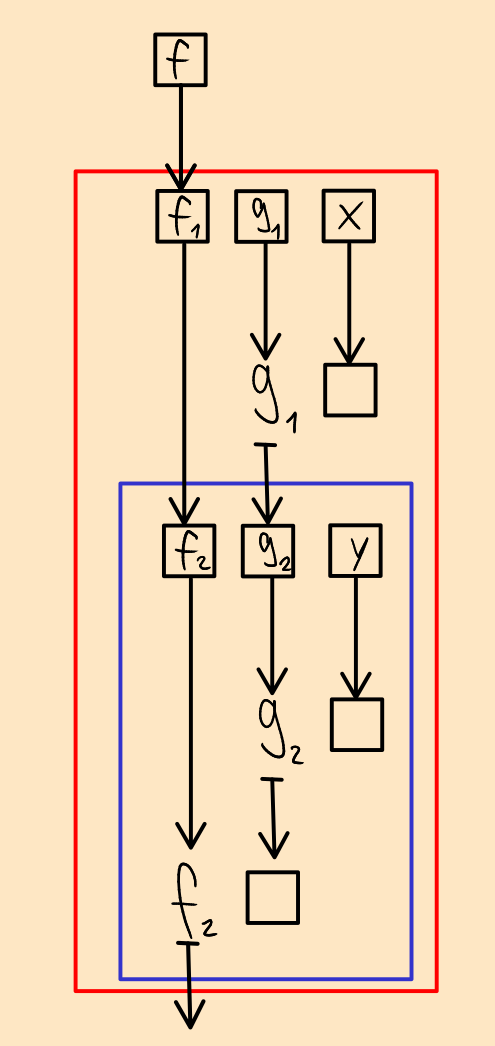
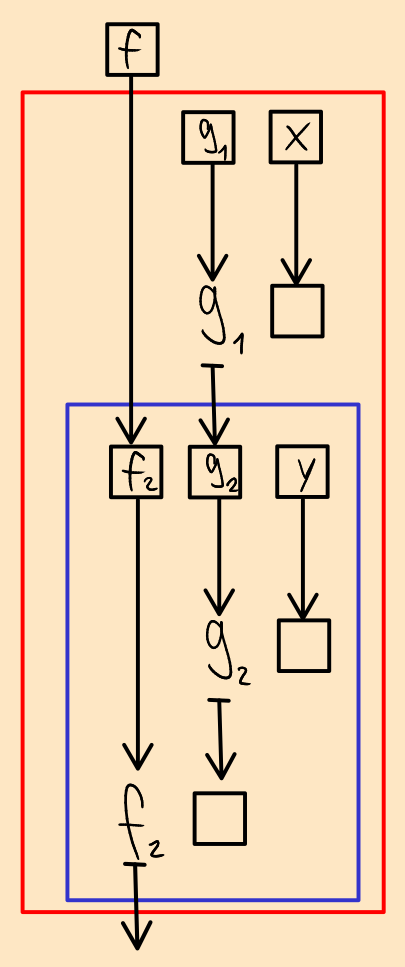
Visual and wording improvement

Changed region(s): [[0.0296, 0.0, 0.9778, 0.9928], [0.5926, 0.3413, 0.6222, 0.3723]]

diff --git a/content/md/posts/combinatory-birdwatching.md b/content/md/posts/combinatory-birdwatching.md
@@ -2,7 +2,7 @@
  :description "Statements dreamed up by the utterly deranged (combinatory logicians)"
  :layout :post
  :date "2023-11-12"
- :draft? true
+ :draft? false
  :tags ["haskell" "combinatory logic" "array programming"]}
 
 Combinatory logic is a very strange branch of computer science. It's too much on the math side to be well-known among programmers, and yet it's so stupidly simple that it would take any programmer around 5 minutes to implement the complete set of common combinators in a modern programming language of their choice, regardless of how much they know or care about the topic. Needless to say, a weird niche has formed around it.
@@ -201,11 +201,11 @@ What we see here is that the left half is used as input (<code>f<sub>1</sub></co
 
 ![](/img/combinators/compcompcomp-1.png)
 
-As you can see <code>f<sub>2</sub></code> = <code>f<sub>1</sub></code> = `f`. So the function that we give as input to the whole thing just ends up in the composition that used to be on the left. In other words: <code>f<sub>2</sub></code> = <code>f<sub>1</sub></code> = `f`. Let's remove that redundancy:
+As you can see, the function that we give as input to the whole thing just ends up in the composition that used to be on the left. In other words: <code>f<sub>2</sub></code> = `f`. Let's remove that redundancy:
 
 ![](/img/combinators/compcompcomp-2.png)
 
-A similar thing now becomes apparent for the `g`s: <code>g<sub>2</sub></code> is the result of of applying <code>g<sub>1</sub></sub></code> to `x` This means that applying <code>g<sub>2</sub></code> to `y` is the same as applying <code>g<sub>1</sub></sub></code> to `x` and the result of that to `y`. In other words: <code>g<sub>2</sub></sub> y</code> = <code>g<sub>1</sub></sub> x y</code>. Let's skip the middleman then and just give the two arguments to <code>g<sub>1</sub></sub></code> directly. And while we're at it, since there is now only a single `g` left, let's just call it `g`.
+A similar thing now becomes apparent for the `g`s: <code>g<sub>2</sub></code> is the result of of applying <code>g<sub>1</sub></sub></code> to `x`. This means that applying <code>g<sub>2</sub></code> to `y` is the same as applying <code>g<sub>1</sub></sub></code> to `x` and the result of that to `y`. In other words: <code>g<sub>2</sub></sub> y</code> = <code>g<sub>1</sub></sub> x y</code>. Let's skip the middleman then and just give the two arguments to <code>g<sub>1</sub></sub></code> directly. And while we're at it, since there is now only a single `g` left, let's just call it `g`.
 
 ![](/img/combinators/compcompcomp-3.png)
 
